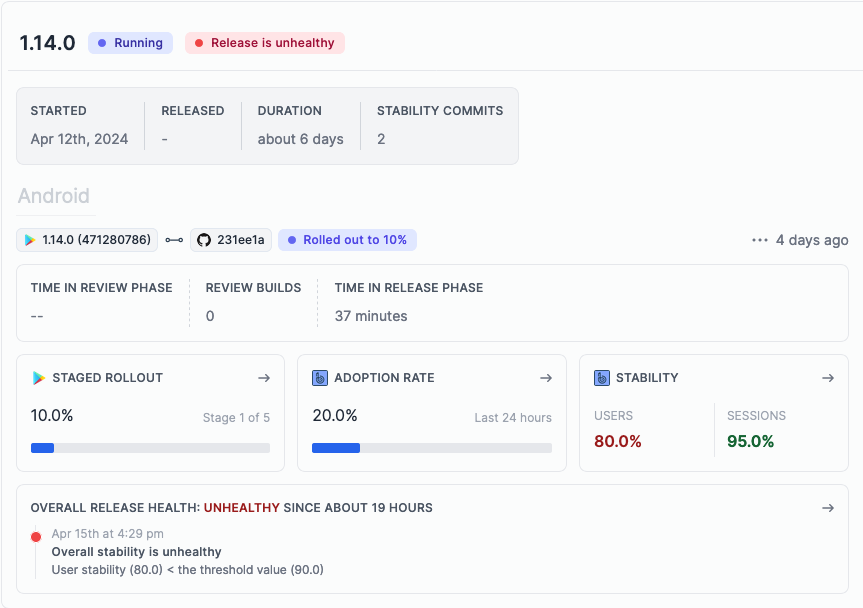
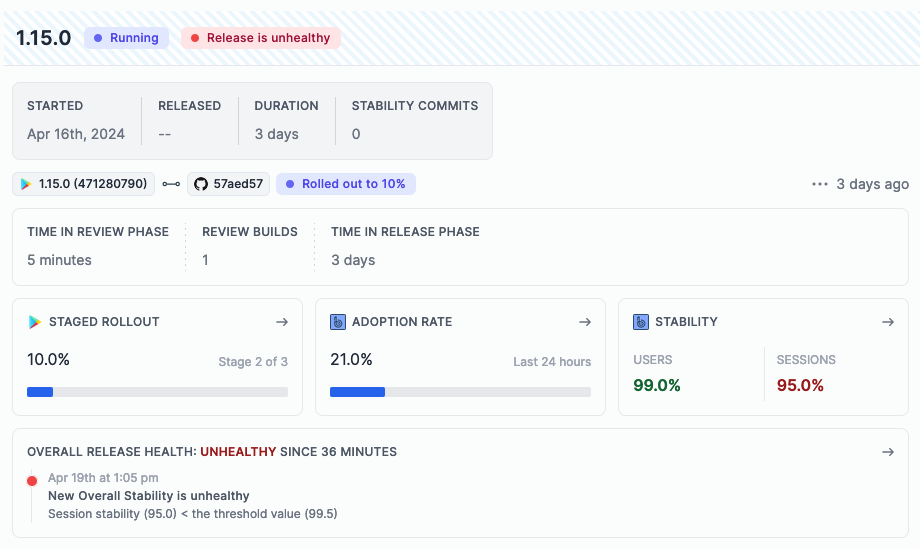
Latest changelog

diff --git a/CHANGELOG.md b/CHANGELOG.md
@@ -1,5 +1,60 @@
 # Tramline Changelog
 
+## 0.0.14 (2024-04-22)
+
+![](../../static/img/changelog/unhealthy-release-slack.png)
+
+###  Release health rules and alerts
+
+We have introduced release health definitions to the Tramline release workflow. You can now configure multiple rules to monitor the health of your release as it gets rolled out to users.
+
+Choose from a set of available health metrics and set thresholds for their healthiness per your own release quality benchmarks and historical data.
+
+![](../../static/img/changelog/release-health-rules.png)
+
+Once you define what makes your release healthy, Tramline will continuously monitor the health status of your release and notify you as it changes so you can take immediate action.
+
+You can make an informed decision to halt the current rollout or resume it as your release health changes. In the future, we can automate the halt and acceleration of the rollout based on these rules.
+
+![](../../static/img/changelog/release-health-overview.png)
+
+Read more on how to configure these rules in the [docs](https://docs.tramline.app/using-tramline/release-health-monitoring).
+
+### Attach builds with Slack notifications
+
+When a new build is available to download from Tramline, we now attach the build to the Slack notification where it can be directly downloaded for testing or other purposes.
+
+### User settings page
+
+![](../../static/img/changelog/user-settings.png)
+
+We have added a basic user settings page to give users control over their basic details. They can set the team they belong to in an organization, add/update their GitHub login so their work is correctly attributed for a release, and change their name as well as their preferred name.
+
+### Handle resubmission of build for review from the app store dashboard
+
+When your Apple review gets rejected, Tramline now continues to poll and sync the status of the store version to ensure that the rest of the team is aware of the changes in review status happening outside of Tramline due to resubmission of the same build or messages back and forth with the review team.
+
+<details open>
+<summary>Improvements and Fixes</summary>
+
+- Add missing help texts to all charts
+- Reduce the load time of the notification settings page
+- More frequent scheduling of scheduled releases
+- Add better CTA on stats cards on the release overview page
+- Remove hotfixes from DevOps charts where they show up as anomalies
+- Allow some more valid special characters in release notes
+- Wider layout and design elements consistency and improvements
+
+</details>
+
+#### Committers: 3
+
+- Akshay Gupta ([@kitallis](https://github.com/kitallis))
+- Nivedita Priyadarshini ([@nid90](https://github.com/nid90))
+- Pratul Kalia ([@pratul](https://github.com/pratul))
+
+<endcommiters/>
+
 ## 0.0.13 (2024-03-25)
 
 ![](../../static/img/changelog/new-ui-release-overview.png)

diff --git a/changelog/source/april-22-2024.md b/changelog/source/april-22-2024.md
@@ -1,0 +1,55 @@
+---
+date: 2024-04-22T20:00
+authors:
+  - 'kitallis'
+  - 'nid90'
+  - 'pratul'
+---
+
+# April 22, 2024
+
+![](../../static/img/changelog/unhealthy-release-slack.png)
+
+###  Release health rules and alerts
+
+We have introduced release health definitions to the Tramline release workflow. You can now configure multiple rules to monitor the health of your release as it gets rolled out to users.
+
+Choose from a set of available health metrics and set thresholds for their healthiness per your own release quality benchmarks and historical data.
+
+![](../../static/img/changelog/release-health-rules.png)
+
+Once you define what makes your release healthy, Tramline will continuously monitor the health status of your release and notify you as it changes so you can take immediate action.
+
+You can make an informed decision to halt the current rollout or resume it as your release health changes. In the future, we can automate the halt and acceleration of the rollout based on these rules.
+
+![](../../static/img/changelog/release-health-overview.png)
+
+Read more on how to configure these rules in the [docs](https://docs.tramline.app/using-tramline/release-health-monitoring).
+
+### Attach builds with Slack notifications
+
+When a new build is available to download from Tramline, we now attach the build to the Slack notification where it can be directly downloaded for testing or other purposes.
+
+### User settings page
+
+![](../../static/img/changelog/user-settings.png)
+
+We have added a basic user settings page to give users control over their basic details. They can set the team they belong to in an organization, add/update their GitHub login so their work is correctly attributed for a release, and change their name as well as their preferred name.
+
+### Handle resubmission of build for review from the app store dashboard
+
+When your Apple review gets rejected, Tramline now continues to poll and sync the status of the store version to ensure that the rest of the team is aware of the changes in review status happening outside of Tramline due to resubmission of the same build or messages back and forth with the review team.
+
+<details open>
+<summary>Improvements and Fixes</summary>
+
+- Add missing help texts to all charts
+- Reduce the load time of the notification settings page
+- More frequent scheduling of scheduled releases
+- Add better CTA on stats cards on the release overview page
+- Remove hotfixes from DevOps charts where they show up as anomalies
+- Allow some more valid special characters in release notes
+- Wider layout and design elements consistency and improvements
+
+</details>
+
